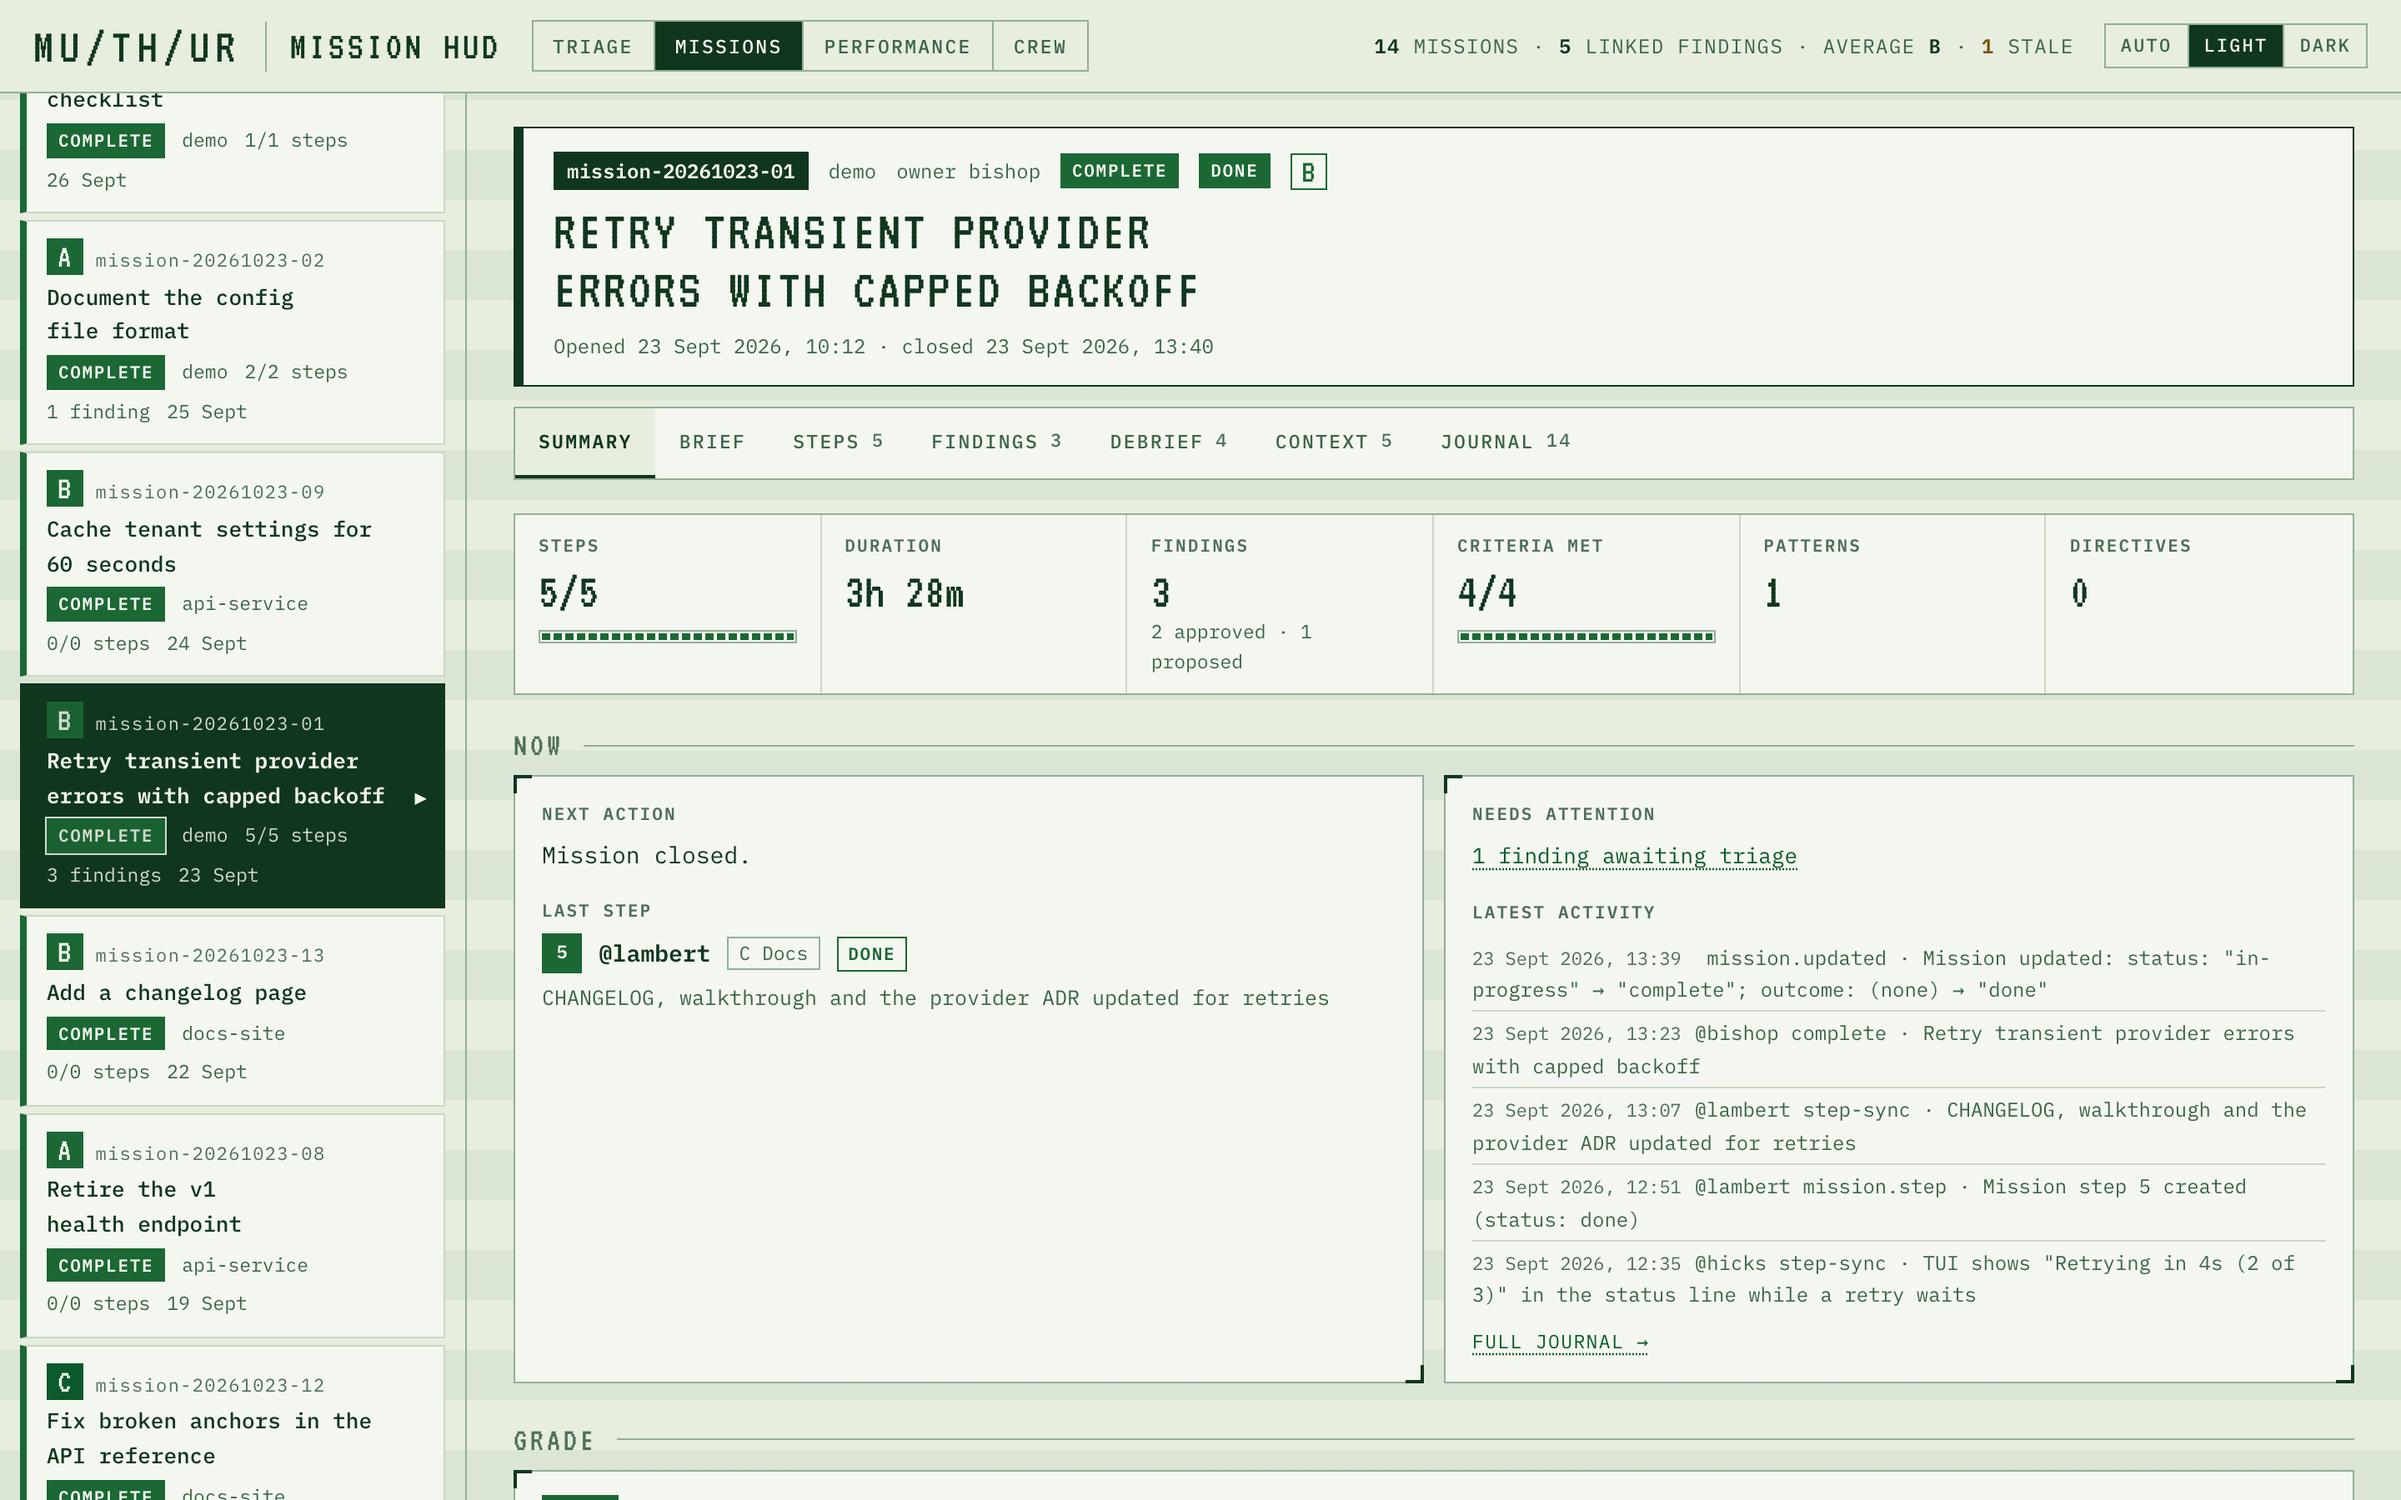
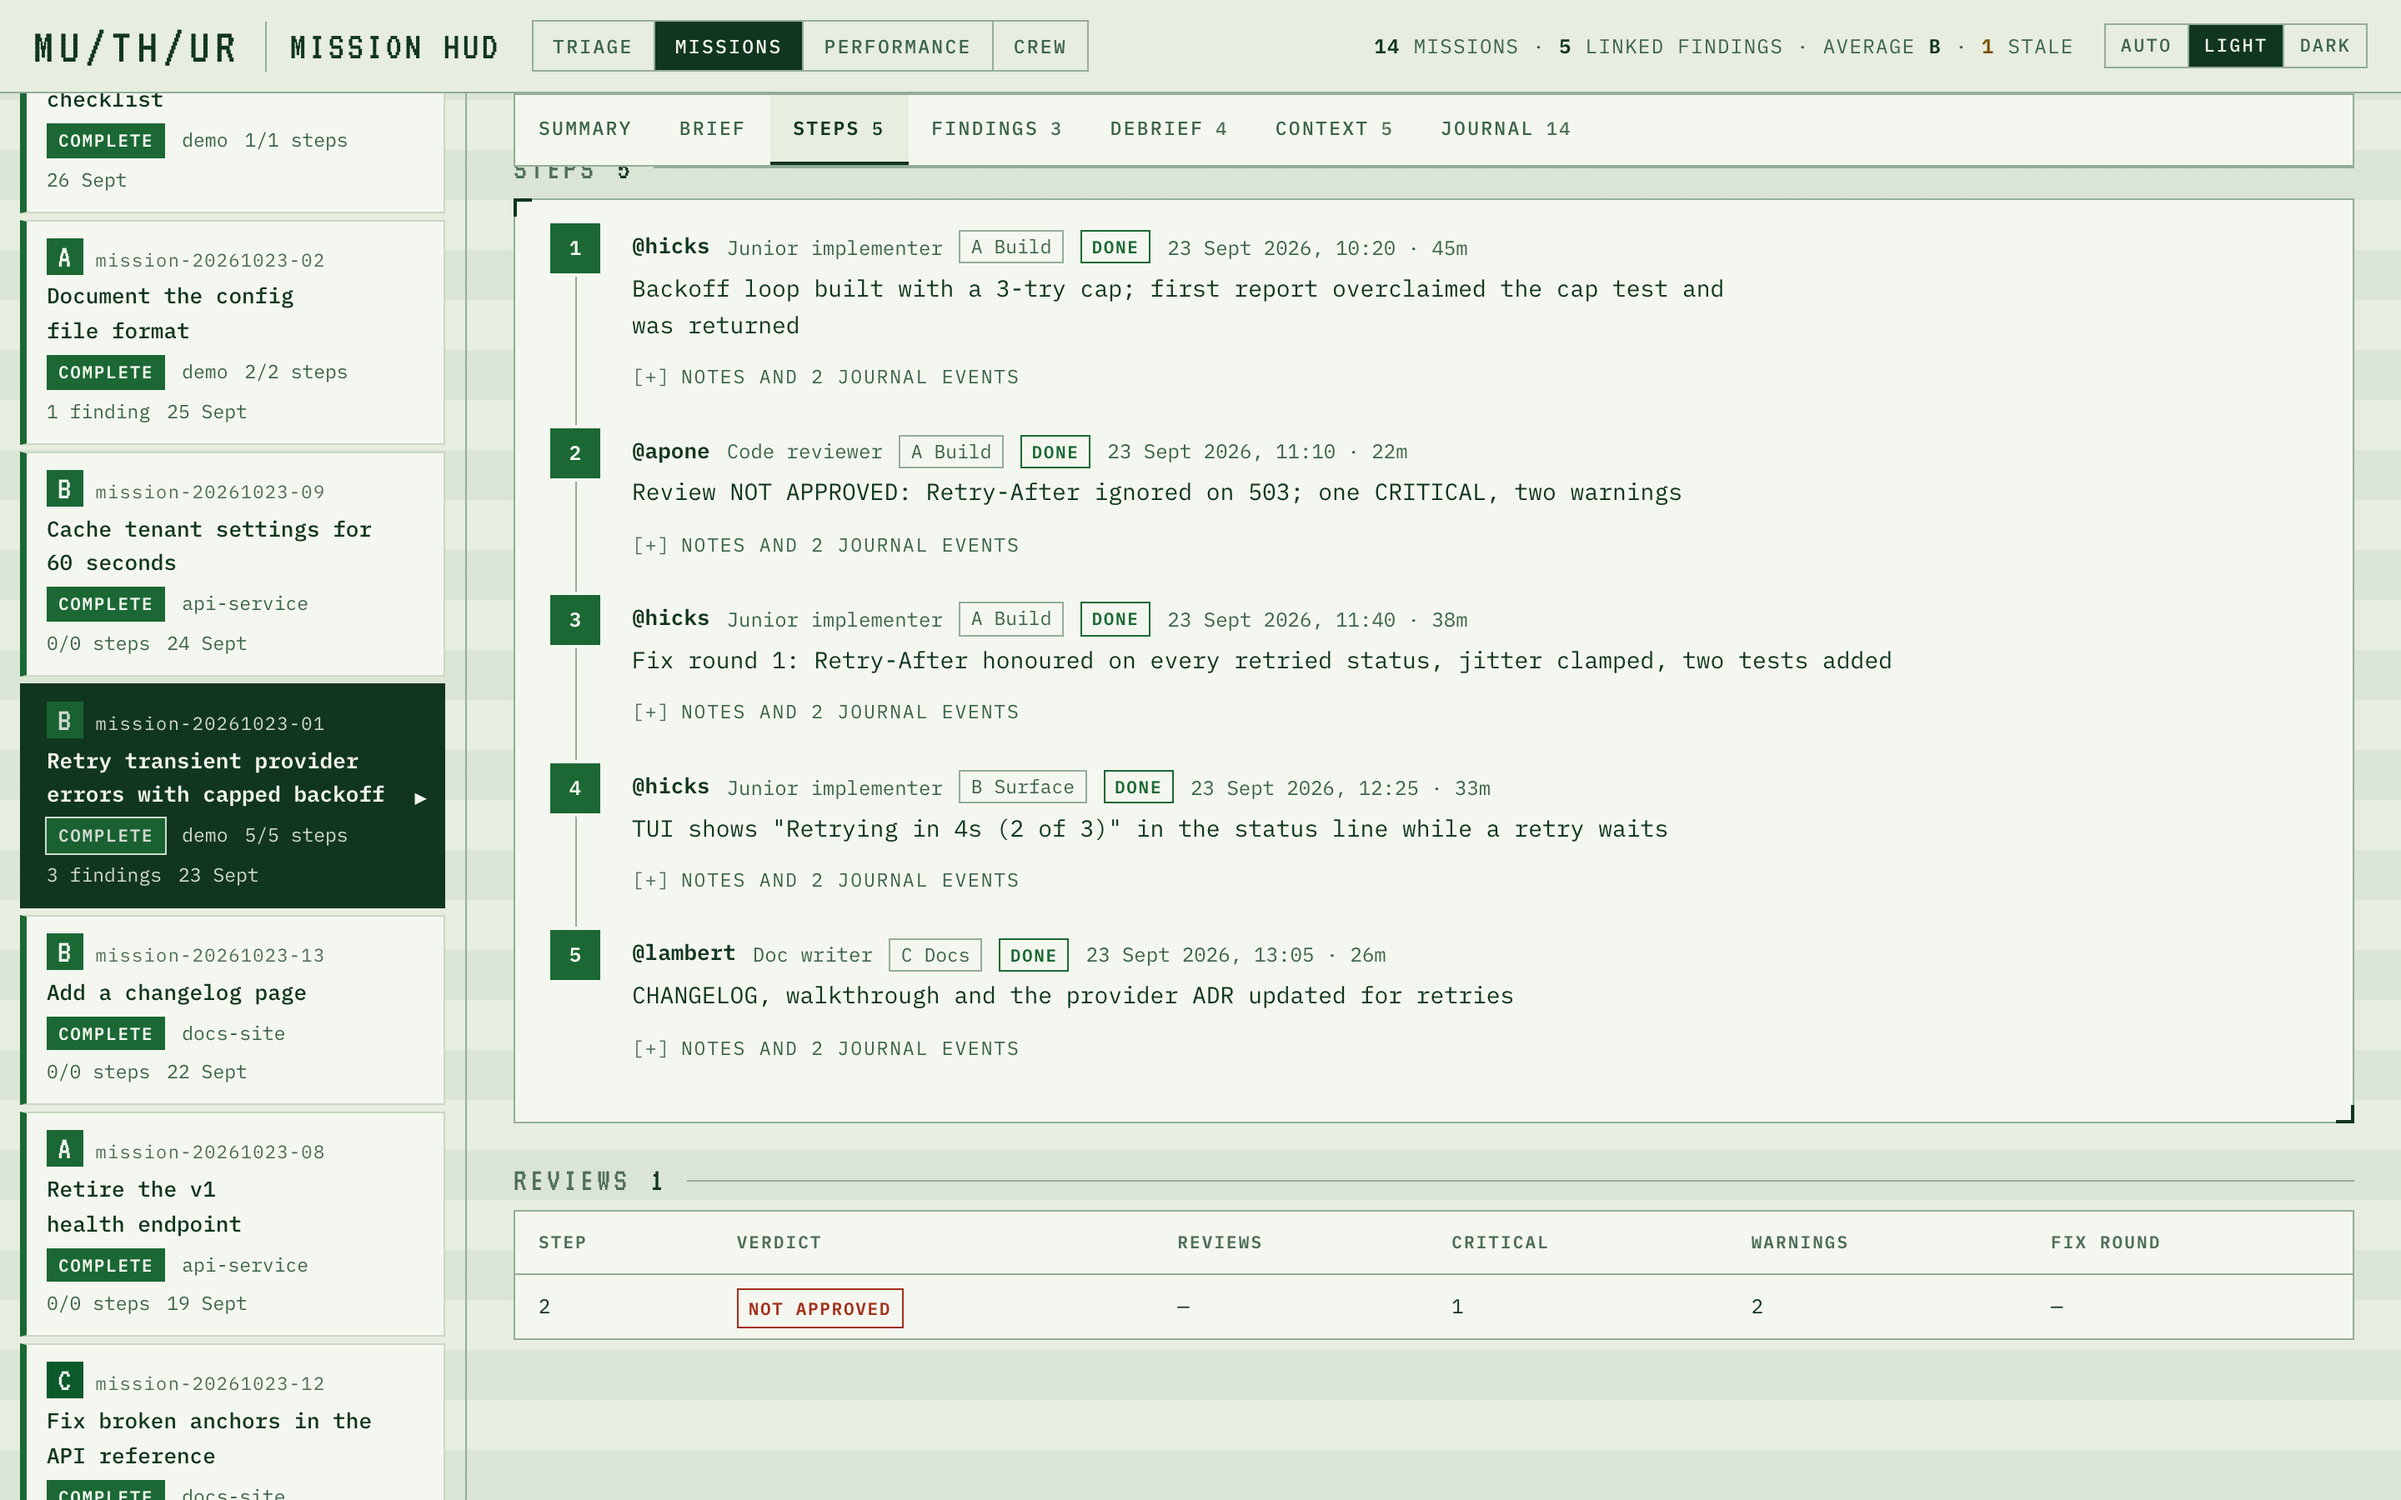
Fix the mission steps screenshot and fail the shots on a bad target
The steps shot scrolled to a section by its index. The Now section had
moved the index onto the Brief section, which the Summary tab hides, so
the shot showed the top of the mission.

capture.js now finds each mission section by its heading. The steps
shot clicks the Steps tab first. showMissionSection fails the run unless
the section is visible and its key element (.steps, .verdict) is on
screen after scrolling. showMissionHead does the same for the phone
shot. Index-based scrolling is gone. A wrong heading fails the run with
exit 1, which was checked against a kept service.

run.sh describes the captured pages by the shot list in capture.js,
not by a fixed list of pages.

docs/wiki/images: missions-steps-light now shows the Steps tab. The
other three changed images were regenerated by the same run: runs-light
differs only in its run timestamps, and performance-light and
missions-dark differ in bytes with no visible change found in
performance-light.

diff --git a/scripts/screenshots/capture.js b/scripts/screenshots/capture.js
@@ -31,12 +31,12 @@ const SHOTS = [
   { name: 'missions-light', theme: 'light', viewport: DESKTOP, mission: 'Retry transient provider errors' },
   { name: 'missions-dark', theme: 'dark', viewport: DESKTOP, mission: 'Retry transient provider errors' },
   { name: 'missions-steps-light', theme: 'light', viewport: DESKTOP, mission: 'Retry transient provider errors',
-    after: async (page) => { await scrollToSection(page, 2); } },
+    after: async (page) => { await showMissionSection(page, { tab: 'steps', heading: 'Steps', must: '.steps' }); } },
   { name: 'missions-phone-light', theme: 'light', viewport: PHONE, mission: 'Retry transient provider errors',
-    after: async (page) => { await scrollToSection(page, -1); } },
+    after: async (page) => { await showMissionHead(page); } },
   // The set-aside mission from demo.json: its Grade section carries the large N/A badge.
   { name: 'missions-na-light', theme: 'light', viewport: DESKTOP, mission: 'Dry run of the release checklist',
-    after: async (page) => { await scrollToGrade(page); } },
+    after: async (page) => { await showMissionSection(page, { heading: 'Grade', must: '.verdict' }); } },
   { name: 'performance-light', theme: 'light', viewport: DESKTOP, page: '/performance' },
   { name: 'performance-dark', theme: 'dark', viewport: DESKTOP, page: '/performance' },
   { name: 'phone-light', theme: 'light', viewport: PHONE, tab: 'pending',
@@ -51,28 +51,42 @@ const SHOTS = [
     } },
 ];
 
-// Scrolls the mission view so section i (-1: the mission header) sits just
-// below the sticky header.
-async function scrollToSection(page, i) {
-  await page.evaluate(i => {
-    const el = i < 0 ? document.querySelector('#view') : document.querySelectorAll('#view section.sec')[i];
+// Makes a mission tab current, when one is given, then scrolls the mission view
+// so the section with this heading sits just below the sticky header. The
+// section is found by its heading, never by its position: the panes hide the
+// sections of other tabs, so a position can name a hidden one. The shot fails
+// unless the section is visible and its `must` element is on screen afterwards.
+async function showMissionSection(page, { tab, heading, must }) {
+  if (tab) {
+    await page.click(`#mtabs button[data-mt="${tab}"]`);
+    await page.waitForTimeout(300);
+  }
+  await page.evaluate(({ heading, must }) => {
+    const sec = [...document.querySelectorAll('#view section.sec')]
+      .find(s => (s.querySelector('h3')?.childNodes[0]?.textContent || '').trim() === heading);
+    if (!sec || sec.hidden || sec.getClientRects().length === 0) throw new Error(`no visible "${heading}" section`);
     const header = document.querySelector('header.top').offsetHeight;
-    window.scrollTo(0, el.getBoundingClientRect().top + window.scrollY - header - 12);
-  }, i);
+    window.scrollTo(0, sec.getBoundingClientRect().top + window.scrollY - header - 12);
+    const target = must ? sec.querySelector(must) : sec;
+    const r = target ? target.getBoundingClientRect() : null;
+    if (!r || r.height === 0 || r.top < header || r.top >= window.innerHeight) {
+      throw new Error(`"${heading}" ${must || 'section'} is not on screen after scrolling`);
+    }
+  }, { heading, must });
   await page.waitForTimeout(300);
 }
 
-// Scrolls the mission view so its Grade section sits just below the sticky
-// header. The section is found by its heading, because the panes hide sections
-// that belong to other tabs, so a numeric index can name a hidden one. Throws
-// when there is no Grade section, so the shot fails rather than capturing the top.
-async function scrollToGrade(page) {
+// Scrolls the mission view so its header (#view, which holds the mission head)
+// sits just below the sticky header. Fails unless the head is on screen afterwards.
+async function showMissionHead(page) {
   await page.evaluate(() => {
-    const sec = [...document.querySelectorAll('#view section.sec')]
-      .find(s => s.querySelector('h3')?.textContent.trim() === 'Grade');
-    if (!sec) throw new Error('no Grade section in the mission view');
+    const view = document.querySelector('#view');
+    const head = view.querySelector('.head');
+    if (!head || head.getClientRects().length === 0) throw new Error('no visible mission head');
     const header = document.querySelector('header.top').offsetHeight;
-    window.scrollTo(0, sec.getBoundingClientRect().top + window.scrollY - header - 12);
+    window.scrollTo(0, view.getBoundingClientRect().top + window.scrollY - header - 12);
+    const r = head.getBoundingClientRect();
+    if (r.bottom <= header || r.top >= window.innerHeight) throw new Error('the mission head is not on screen');
   });
   await page.waitForTimeout(300);
 }
